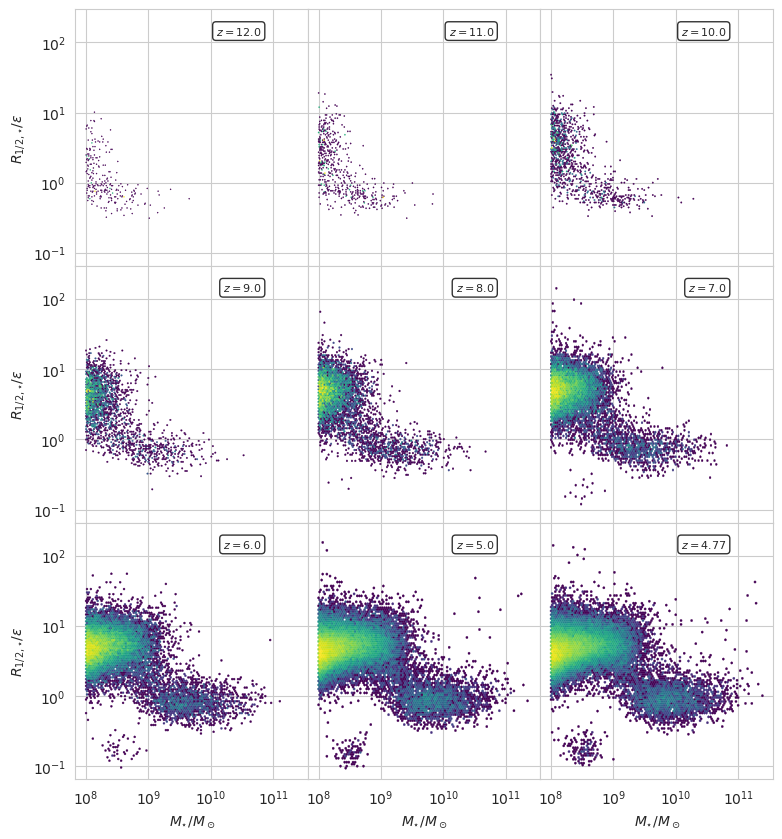
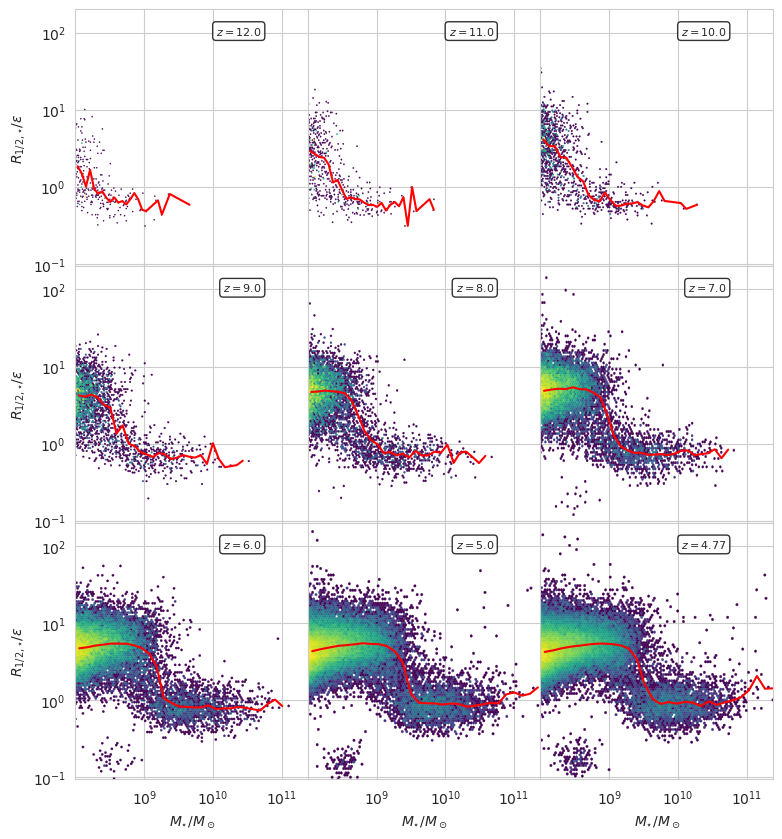
Changed median binning on half light radius plots

diff --git a/halflightrad_rest.py b/halflightrad_rest.py
@@ -37,7 +37,7 @@ model.create_Lnu_grid(F)
 def plot_meidan_stat(xs, ys, ax, bins=None):
 
     if bins == None:
-        bin = np.logspace(np.log10(xs.min()), np.log10(xs.max()), 30)
+        bin = np.logspace(np.log10(xs.min()), np.log10(xs.max()), 20)
     else:
         bin = bins
 
